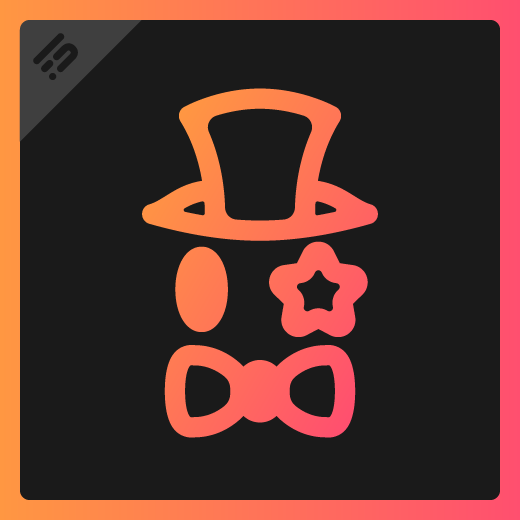
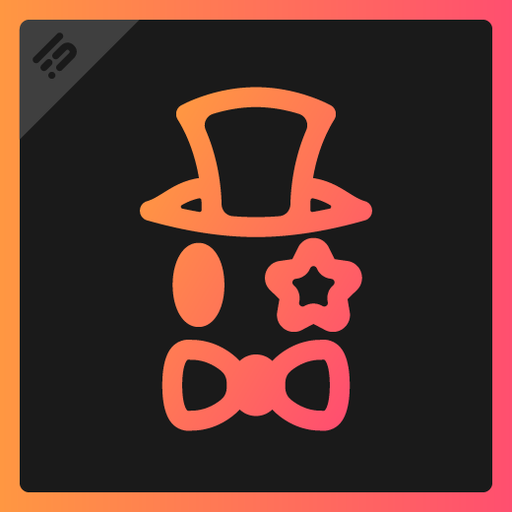
歷史整理:壓縮 4 筆台服移植與開發 commit(內容零變更,原歷史在 tag pre-squash-20260826)
- Cache TriadOptimizedDeckCacheStore.GetCharacterCacheViews() instead of rescanning every frame
- Background sound-effect playback instead of blocking on the main thread
- Resize icon from 520x520 to 512x512 (exceeded Dalamud's max icon resolution)
- 移除外掛 Author 欄位的個人署名 (version number is our identifying marker, not the author field)

diff --git a/Saucy/TripleTriad/GameLogic/DeckCache/TriadOptimizedDeckCacheStore.cs b/Saucy/TripleTriad/GameLogic/DeckCache/TriadOptimizedDeckCacheStore.cs
@@ -50,6 +50,12 @@ internal static class TriadOptimizedDeckCacheStore
     private static TriadOptimizedDeckCacheFile? activeFile;
     private static bool loadedForCharacter;
 
+    // GetCharacterCacheViews() is called every frame the settings "Cache" tab is drawn; caching
+    // the result and only recomputing when the underlying data actually changed avoids rescanning
+    // the plugin-configs directory and re-parsing every character's JSON cache file every frame.
+    private static IReadOnlyList<TriadOptimizedDeckCacheCharacterView>? cachedCharacterViews;
+    private static bool characterViewsDirty = true;
+
     public static void TickCharacter()
     {
         if (!Svc.ClientState.IsLoggedIn)
@@ -214,6 +220,12 @@ internal static class TriadOptimizedDeckCacheStore
         lock (FileLock)
         {
             EnsureLoaded();
+
+            if (!characterViewsDirty && cachedCharacterViews != null)
+            {
+                return cachedCharacterViews;
+            }
+
             var currentContentId = GetLocalContentId();
             var views = new List<TriadOptimizedDeckCacheCharacterView>();
             var configsRoot = GetPluginConfigsRoot();
@@ -254,12 +266,27 @@ internal static class TriadOptimizedDeckCacheStore
                 views.Add(BuildCharacterView(currentContentId, activeFile, true));
             }
 
-            return
+            cachedCharacterViews =
             [
                 .. views
                     .OrderByDescending(v => v.IsCurrentCharacter)
                     .ThenBy(v => v.DisplayName, StringComparer.OrdinalIgnoreCase)
             ];
+            characterViewsDirty = false;
+            return cachedCharacterViews;
+        }
+    }
+
+    /// <summary>
+    /// Forces the next call to <see cref="GetCharacterCacheViews"/> to rescan disk instead of
+    /// returning the cached list. Called automatically whenever cache data actually changes;
+    /// exposed publicly so the settings UI can offer a manual refresh too.
+    /// </summary>
+    public static void InvalidateCharacterCacheViews()
+    {
+        lock (FileLock)
+        {
+            characterViewsDirty = true;
         }
     }
 
@@ -366,6 +393,7 @@ internal static class TriadOptimizedDeckCacheStore
 
             activeFile = new();
             loadedForCharacter = true;
+            characterViewsDirty = true;
 
             try
             {
@@ -475,6 +503,7 @@ internal static class TriadOptimizedDeckCacheStore
                         return; // character changed again before this finished; drop stale result
 
                     activeFile = loaded;
+                    characterViewsDirty = true;
                     ImportLegacyBuildTimestampsLocked();
                 }
             });
@@ -527,6 +556,7 @@ internal static class TriadOptimizedDeckCacheStore
                 Directory.CreateDirectory(Path.GetDirectoryName(path)!);
                 var json = JsonConvert.SerializeObject(activeFile, Formatting.Indented);
                 File.WriteAllText(path, json);
+                characterViewsDirty = true;
             }
             catch (Exception ex)
             {
@@ -540,6 +570,7 @@ internal static class TriadOptimizedDeckCacheStore
         loadedForCharacter = false;
         activeFile = null;
         activeContentId = 0;
+        characterViewsDirty = true;
     }
 
     private static string GetCachePath(ulong contentId)

diff --git a/Saucy/Core/Plugin/Saucy.Audio.cs b/Saucy/Core/Plugin/Saucy.Audio.cs
@@ -27,23 +27,30 @@ public sealed partial class Saucy
 
     private void PlaySound()
     {
-        lock (_lockObj)
+        // Reading/decoding the mp3 and initializing the playback device are blocking calls;
+        // this is called from the Framework tick (Saucy.Tick.cs), so run it off the main
+        // thread. NAudio's WaveOutEvent isn't tied to the render thread the way Dalamud's
+        // D3D11 texture APIs are, so backgrounding it entirely is safe.
+        Task.Run(() =>
         {
-            DisposeAudio();
-
-            var sound = C.SelectedSound;
-            var path = Path.Combine(Svc.PluginInterface.AssemblyLocation.Directory!.FullName, "Sounds", $"{sound}.mp3");
-            if (!File.Exists(path))
+            lock (_lockObj)
             {
-                return;
-            }
+                DisposeAudio();
 
-            _currentReader = new(path);
-            _currentWaveOut = new();
-            _currentWaveOut.PlaybackStopped += OnPlaybackStopped;
-            _currentWaveOut.Init(_currentReader);
-            _currentWaveOut.Play();
-        }
+                var sound = C.SelectedSound;
+                var path = Path.Combine(Svc.PluginInterface.AssemblyLocation.Directory!.FullName, "Sounds", $"{sound}.mp3");
+                if (!File.Exists(path))
+                {
+                    return;
+                }
+
+                _currentReader = new(path);
+                _currentWaveOut = new();
+                _currentWaveOut.PlaybackStopped += OnPlaybackStopped;
+                _currentWaveOut.Init(_currentReader);
+                _currentWaveOut.Play();
+            }
+        });
     }
 
     private void OnPlaybackStopped(object? sender, StoppedEventArgs e)

diff --git a/Saucy/TripleTriad/UI/Settings/TriadCacheSettingsUi.cs b/Saucy/TripleTriad/UI/Settings/TriadCacheSettingsUi.cs
@@ -108,6 +108,18 @@ internal static class TriadCacheSettingsUi
 
     private static void DrawClearButton()
     {
+        if (ImGui.Button("Refresh".Loc()))
+        {
+            TriadOptimizedDeckCacheStore.InvalidateCharacterCacheViews();
+        }
+
+        if (ImGui.IsItemHovered())
+        {
+            ImGui.SetTooltip("Rescan cached decks from disk.".Loc());
+        }
+
+        ImGui.SameLine();
+
         var ctrlHeld = ImGui.GetIO().KeyCtrl;
         using var clearDisabled = ImRaii.Disabled(!ctrlHeld);
         if (ImGui.Button("Clear deck cache for this character".Loc()))
